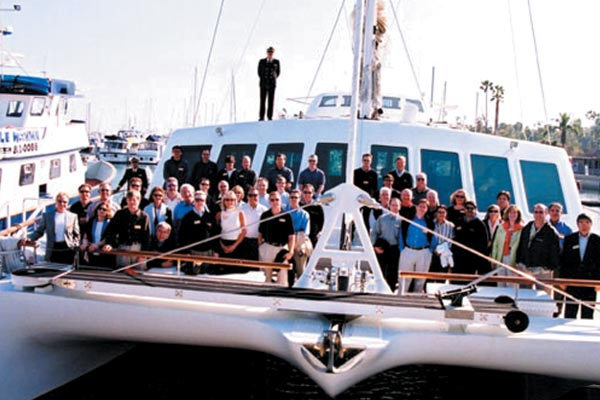
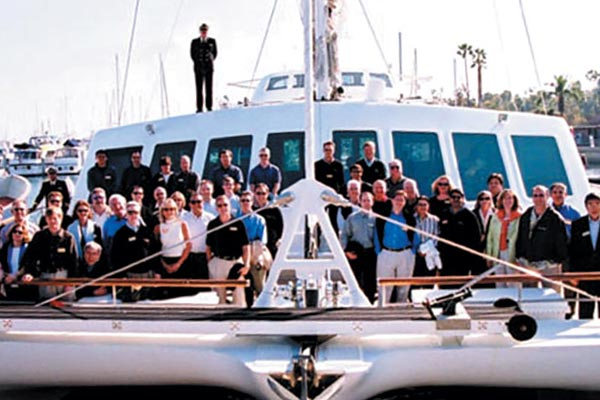
Updated Gallery image and Tours verbiage per client

diff --git a/vtours.html b/vtours.html
@@ -82,7 +82,7 @@
             <div class="row featurette">
                 <div class="col-md-4">
                   <h2 class="featurette-heading hidden-sm hidden-xs">Observation Deck. <span class="text-muted">See for yourself.</span></h2>
-                  <p class="lead">Join the crew of the Channel Cat while we spot whales, dolphins, and the giant Pelicans diving for their food.  Relax in total comfort on the bow while watching the beautiful Santa Barbara beaches, along with the Santa Ynez mountain range.  You'll see the Channel Islands of Anacapa, Santa Cruz, Santa Rosa, and San Miguel from the bow, or pilot house.</p>
+                  <p class="lead">Join the crew of the Channel Cat while we spot whales, dolphins, sea lions, and the giant Pelicans diving for their food.  Relax in total comfort on the bow while watching the beautiful Santa Barbara beaches, along with the Santa Ynez mountain range.  You'll see the Channel Islands of Anacapa, Santa Cruz, Santa Rosa, and San Miguel from the bow, or pilot house.</p>
                 </div>
                 <div class="col-md-8">
                   <iframe src="vtours/obsdeck.html" allowfullscreen="true" mozallowfullscreen="true" webkitallowfullscreen="true"></iframe>

diff --git a/gallery.html b/gallery.html
@@ -61,7 +61,7 @@
                     <img src="images/gallery/thumbs/DSCN3395.jpg" class="img-responsive" />
                 </li>
                 <li class="gridder-list" data-griddercontent="#gridder-content-2">
-                    <img src="images/gallery/thumbs/wedding1.jpg" class="img-responsive" />
+                    <img src="images/gallery/thumbs/46_people.jpg" class="img-responsive" />
                 </li>
                 <li class="gridder-list" data-griddercontent="#gridder-content-3">
                     <img src="images/gallery/thumbs/IMG_1939.jpg" class="img-responsive" />
@@ -204,7 +204,7 @@
             <div id="gridder-content-2" class="gridder-content">
                 <div class="row">
                     <div class="col-sm-12">
-                        <img src="images/gallery/wedding1.jpg" class="img-responsive" />
+                        <img src="images/gallery/46_people.jpg" class="img-responsive" />
                     </div>
                 </div>
             </div>

diff --git a/contact.html b/contact.html
@@ -68,8 +68,9 @@
                     <h3>Email:<br> Click To Send</h3>
                 </div><!-- /.col-lg-4 -->
             </div><!-- /.row -->
-            <footer id="c-footer" class="pull-right">
-                <p>&copy; 2016 Ocean Channel Adventures, Inc. </p>
+            <footer id="c-footer">
+                <p class="pull-left">&copy; 2016 Ocean Channel Adventures, Inc.</p>
+                <p class="pull-right"><a href="mailto:info@channelcatcharters.com">info@channelcatcharters.com</a></p>
             </footer>
         </div>      
     </div>

diff --git a/css/ccc.css b/css/ccc.css
@@ -84,7 +84,6 @@ blockquote, q {
 .featurette-heading {
   font-family: 'Montserrat', sans-serif;
   line-height: 1.25;
-  /*letter-spacing: -1px;*/
 }
 /* virtual tour iframes */
 iframe
@@ -224,6 +223,11 @@ a.accordion-link
     height: 100vh;
     border: 1px solid #DDD;
     position: relative;
+}
+#contact a
+{
+    color: #333;
+    letter-spacing: 2px;
 }
 #c-content
 {
@@ -469,6 +473,7 @@ q q:after { content: '\2019'; }
 video
 {
     margin: 0 0 15px -15px;
+    border: 1px solid #DEDEDE;
 }
 /* responsive design */
 @media (min-width: 1200px) {
